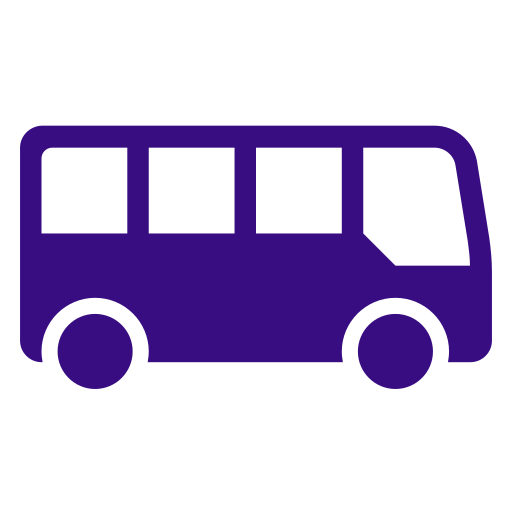
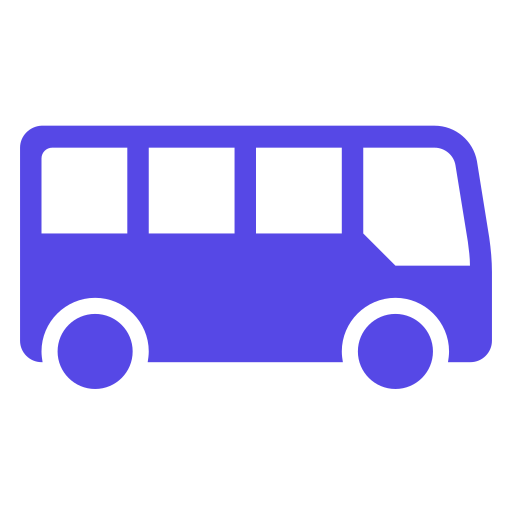
chore: add new asset files | Thêm các tệp tài sản mới

Changed region(s): [[0.0312, 0.2188, 0.9688, 0.7812]]

diff --git a/Frontend/src/styles.css b/Frontend/src/styles.css
@@ -1,14 +1,23 @@
-/* You can add global styles to this file, and also import other style files */
-@import url('https://fonts.googleapis.com/css2?family=Poppins:wght@300;400;500;600;700&display=swap');
+/* Nhập phông chữ Inter - Phông chữ tốt nhất hiện nay cho Tiếng Việt (không bao giờ lỗi dấu) */
+@import url('https://fonts.googleapis.com/css2?family=Inter:wght@300;400;500;600;700;800&display=swap');
+
+* {
+    margin: 0;
+    padding: 0;
+    box-sizing: border-box;
+    font-family: 'Inter', sans-serif; /* Thay đổi phông chữ toàn diện để hết lỗi dấu */
+    -webkit-font-smoothing: antialiased;
+    -moz-osx-font-smoothing: grayscale;
+}
 
 :root {
-    --primary-color: #6a5eee;
-    --bg-color: #e5e9f5;
-    --text-color: #333333;
+    --primary-color: #7C8AE8;     /* Lavender Blue - Chủ đạo */
+    --bg-color: #F5F7FF;          /* Nền xanh cực nhẹ */
+    --text-color: #2D3436;
     --text-light: #8b8f9e;
     --white: #ffffff;
-    --accent-orange: #f48c3b;
-    --accent-blue: #3b8cf4;
+    --accent-orange: #F19E8E;    /* Salmon Pink - Điểm nhấn */
+    --accent-blue: #A7BFE8;      /* Sky Blue */
     --success: #2bc155;
     --danger: #f43b3b;
     --shadow-light: 4px 4px 15px rgba(0, 0, 0, 0.03);
@@ -16,13 +25,6 @@
     --radius-xl: 30px;
     --radius-lg: 20px;
     --radius-md: 12px;
-}
-
-* {
-    margin: 0;
-    padding: 0;
-    box-sizing: border-box;
-    font-family: 'Poppins', sans-serif;
 }
 
 body {
